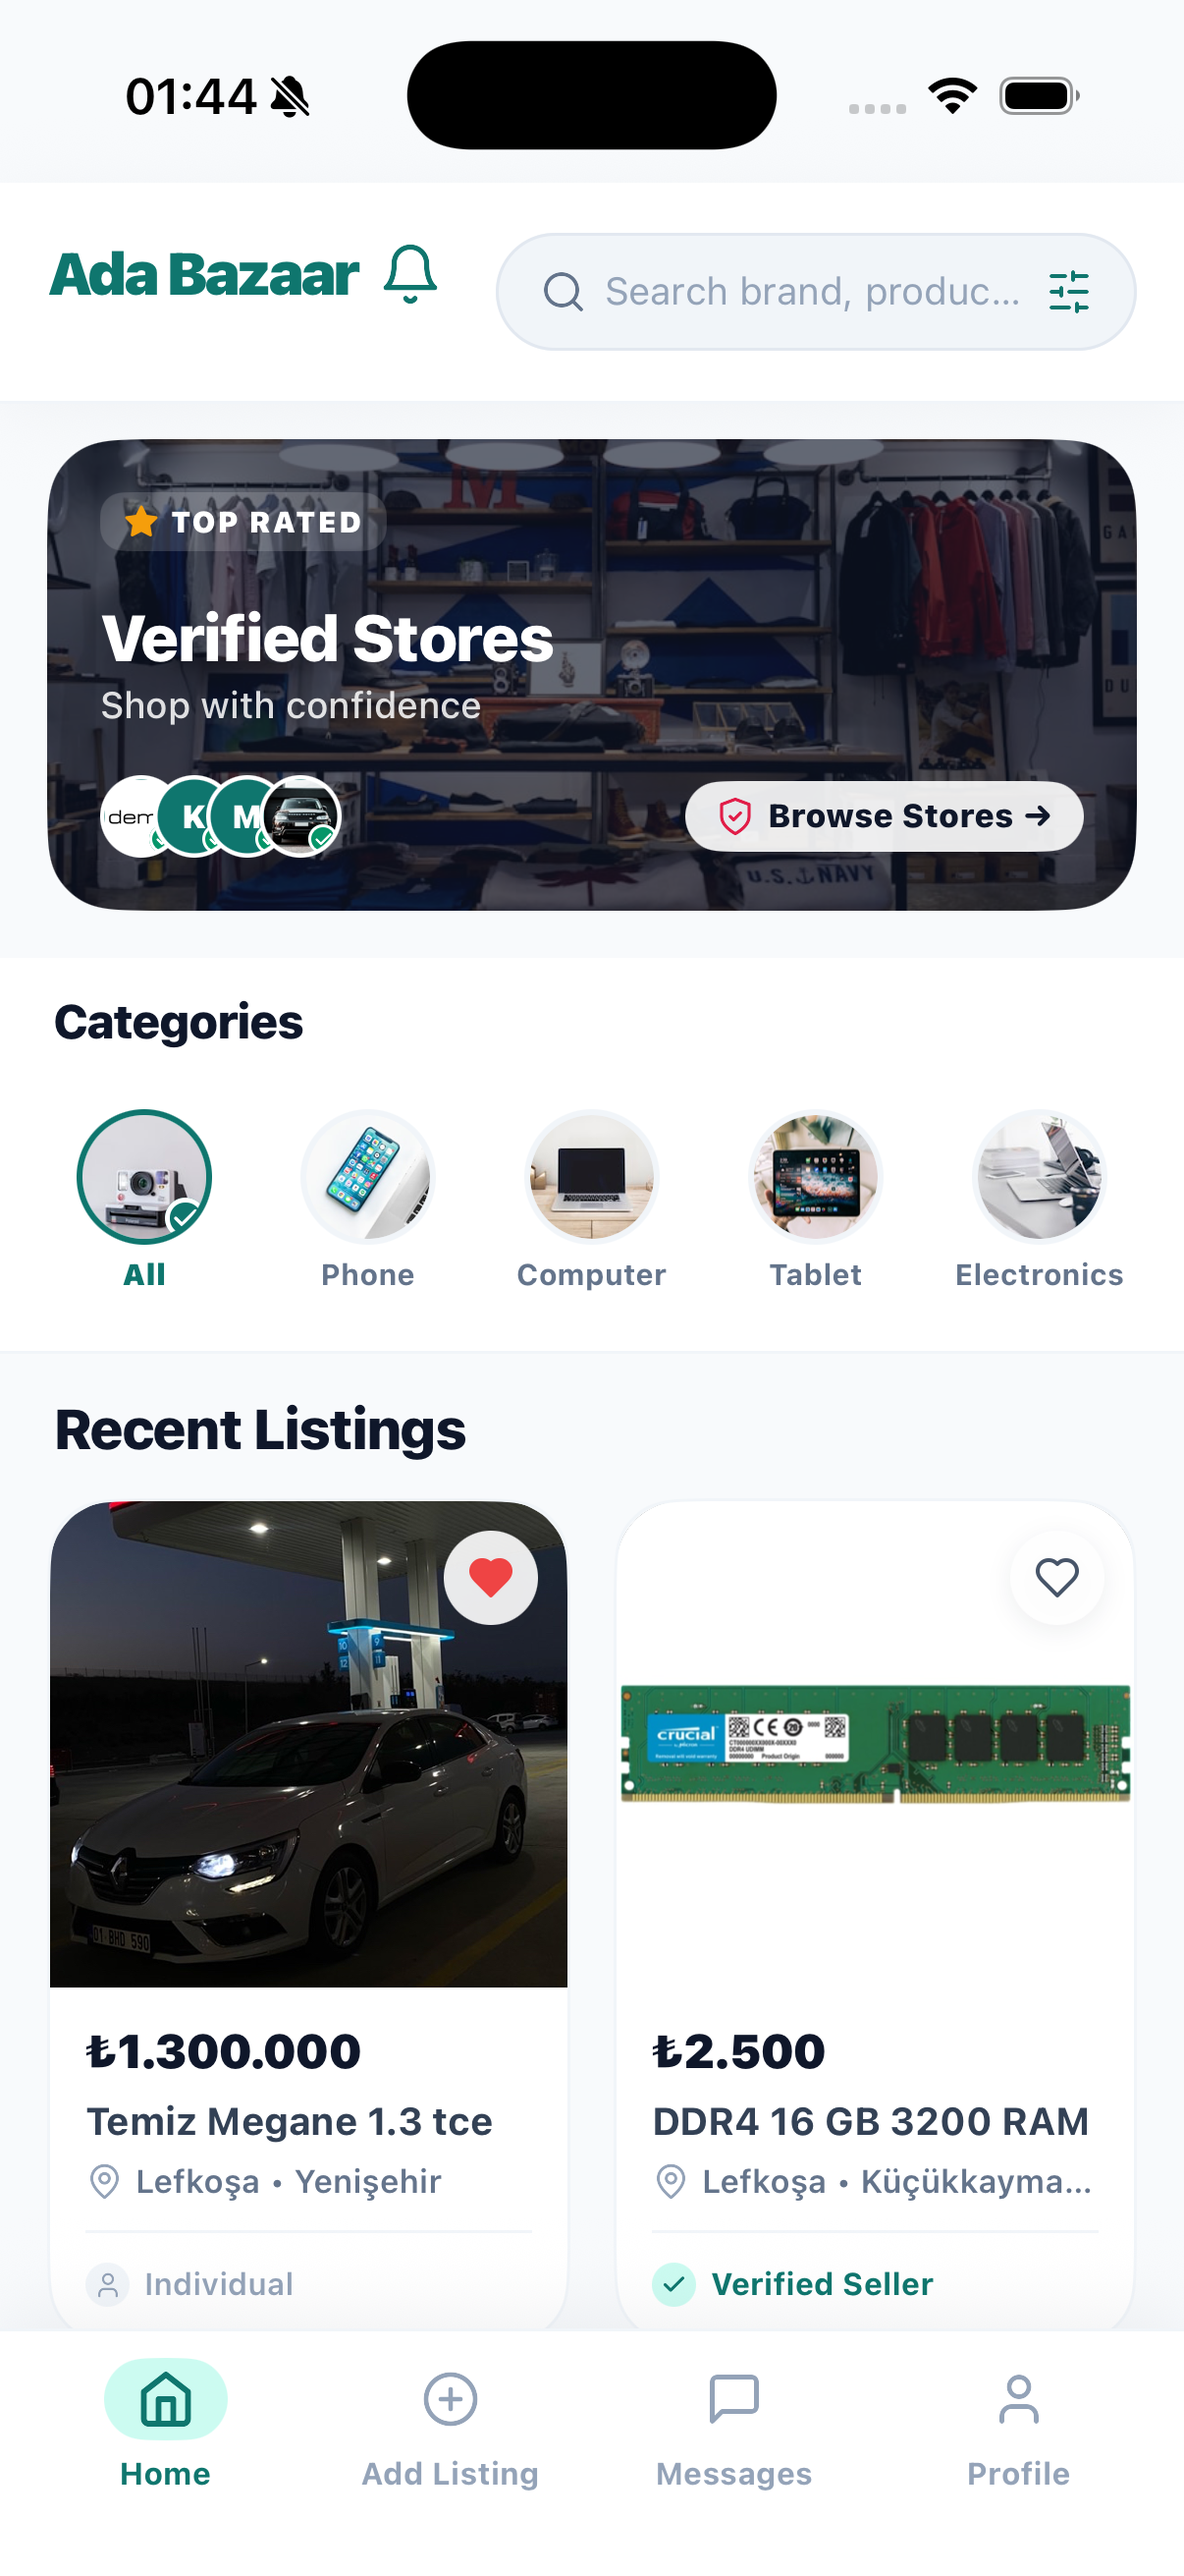
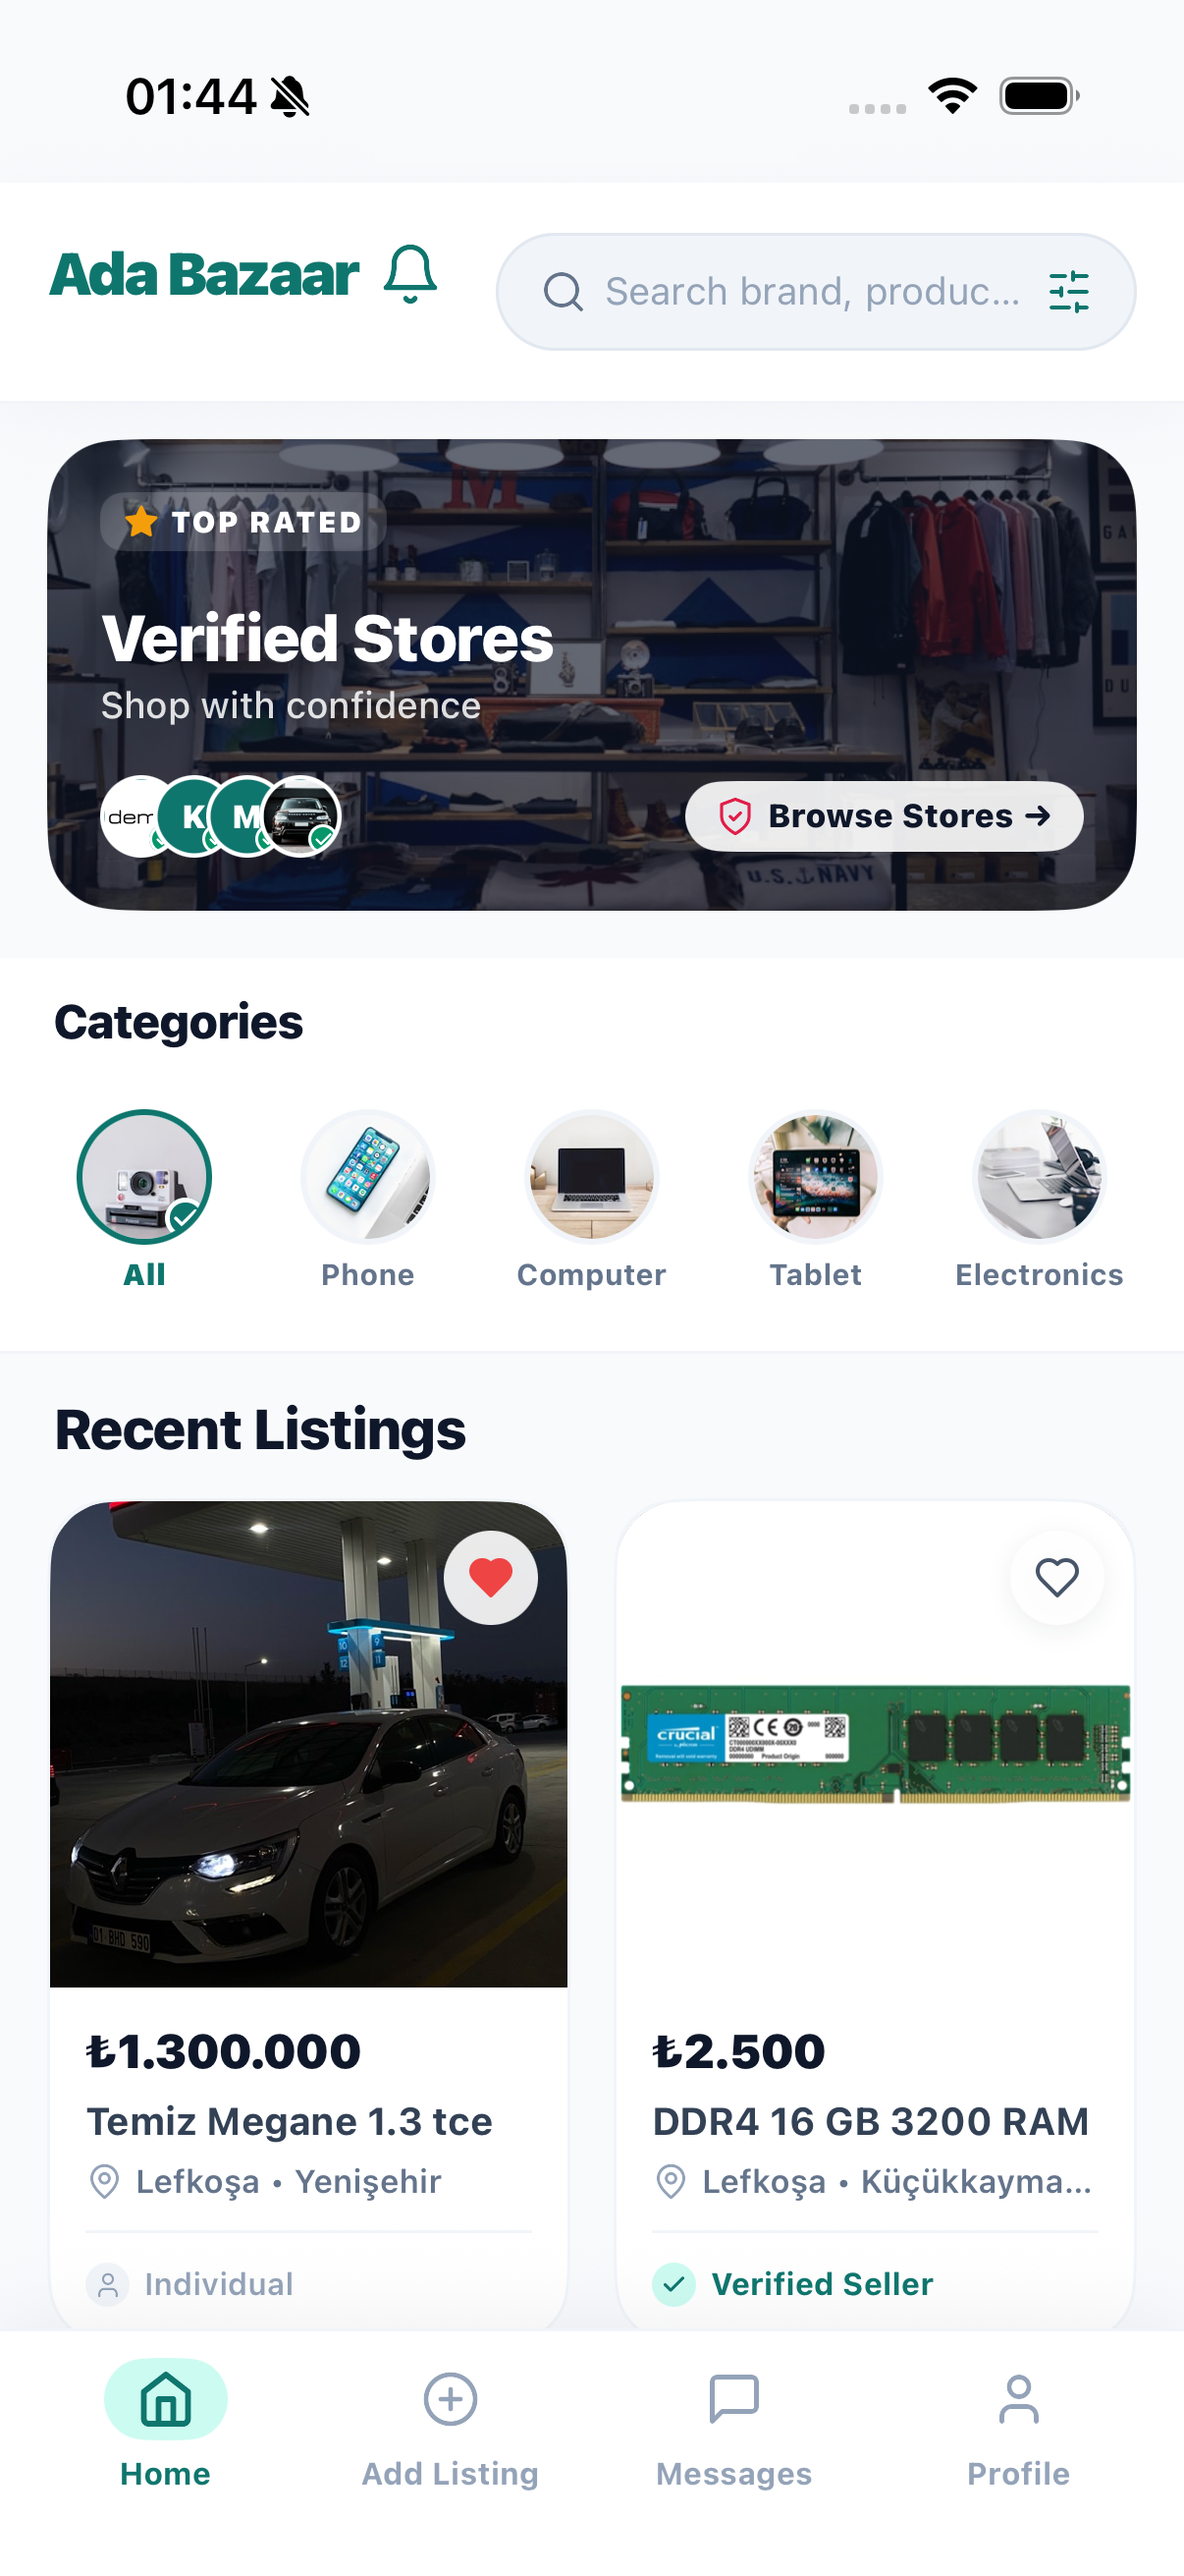
style: Remove Dynamic Island notch from hero image and enlarge hero image size

Changed region(s): [[0.3375, 0.0, 0.675, 0.0618]]

diff --git a/src/app/landing/page.tsx b/src/app/landing/page.tsx
@@ -582,12 +582,12 @@ export default function LandingPage() {
             </div>
           </div>
 
-          {/* 🖼 SINGLE HERO IMAGE FROM github-resim/2.png - OPTIMIZED SIZE */}
+          {/* 🖼 SINGLE HERO IMAGE FROM github-resim/2.png - ENHANCED SIZE & NO DYNAMIC ISLAND */}
           <div className="lg:col-span-5 flex justify-center items-center relative">
             <img
               src="/hero-banner.png"
               alt="AdaBazaar Mobil Uygulaması"
-              className="w-full max-w-[280px] sm:max-w-[320px] lg:max-w-[340px] max-h-[490px] h-auto object-contain drop-shadow-xl hover:scale-105 transition-transform duration-500"
+              className="w-full max-w-[320px] sm:max-w-[380px] lg:max-w-[420px] max-h-[560px] h-auto object-contain drop-shadow-2xl hover:scale-105 transition-transform duration-500"
             />
           </div>
         </div>
